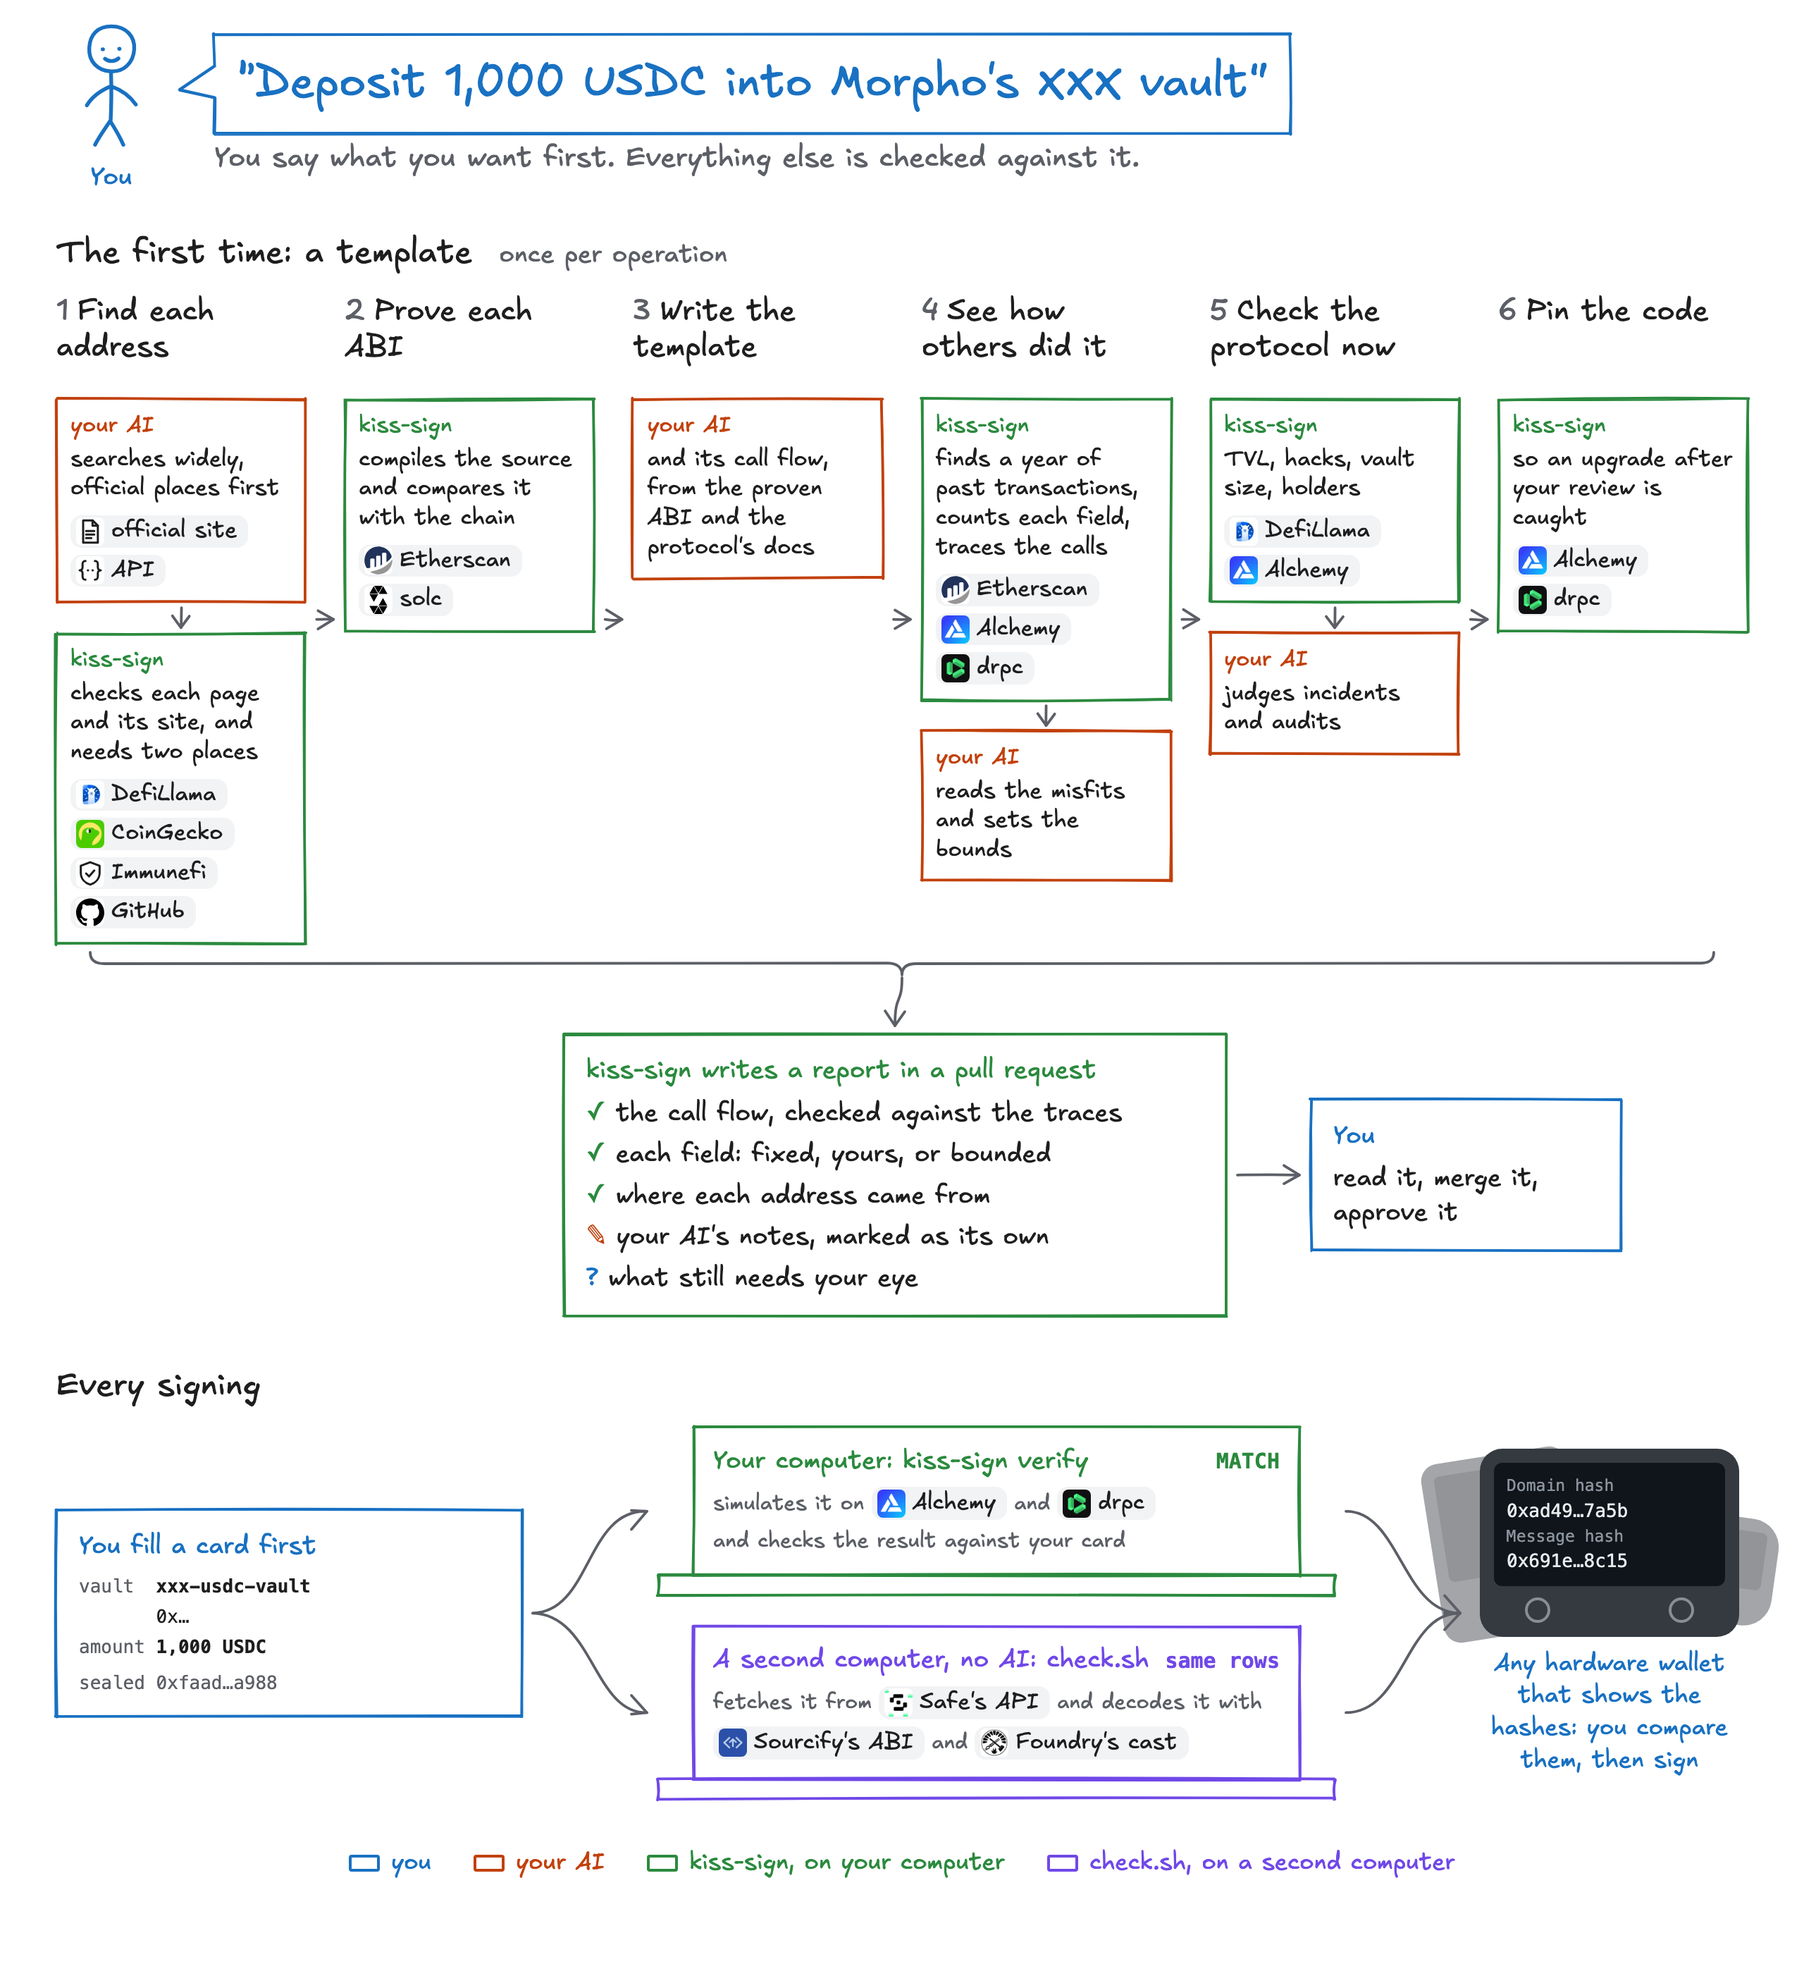
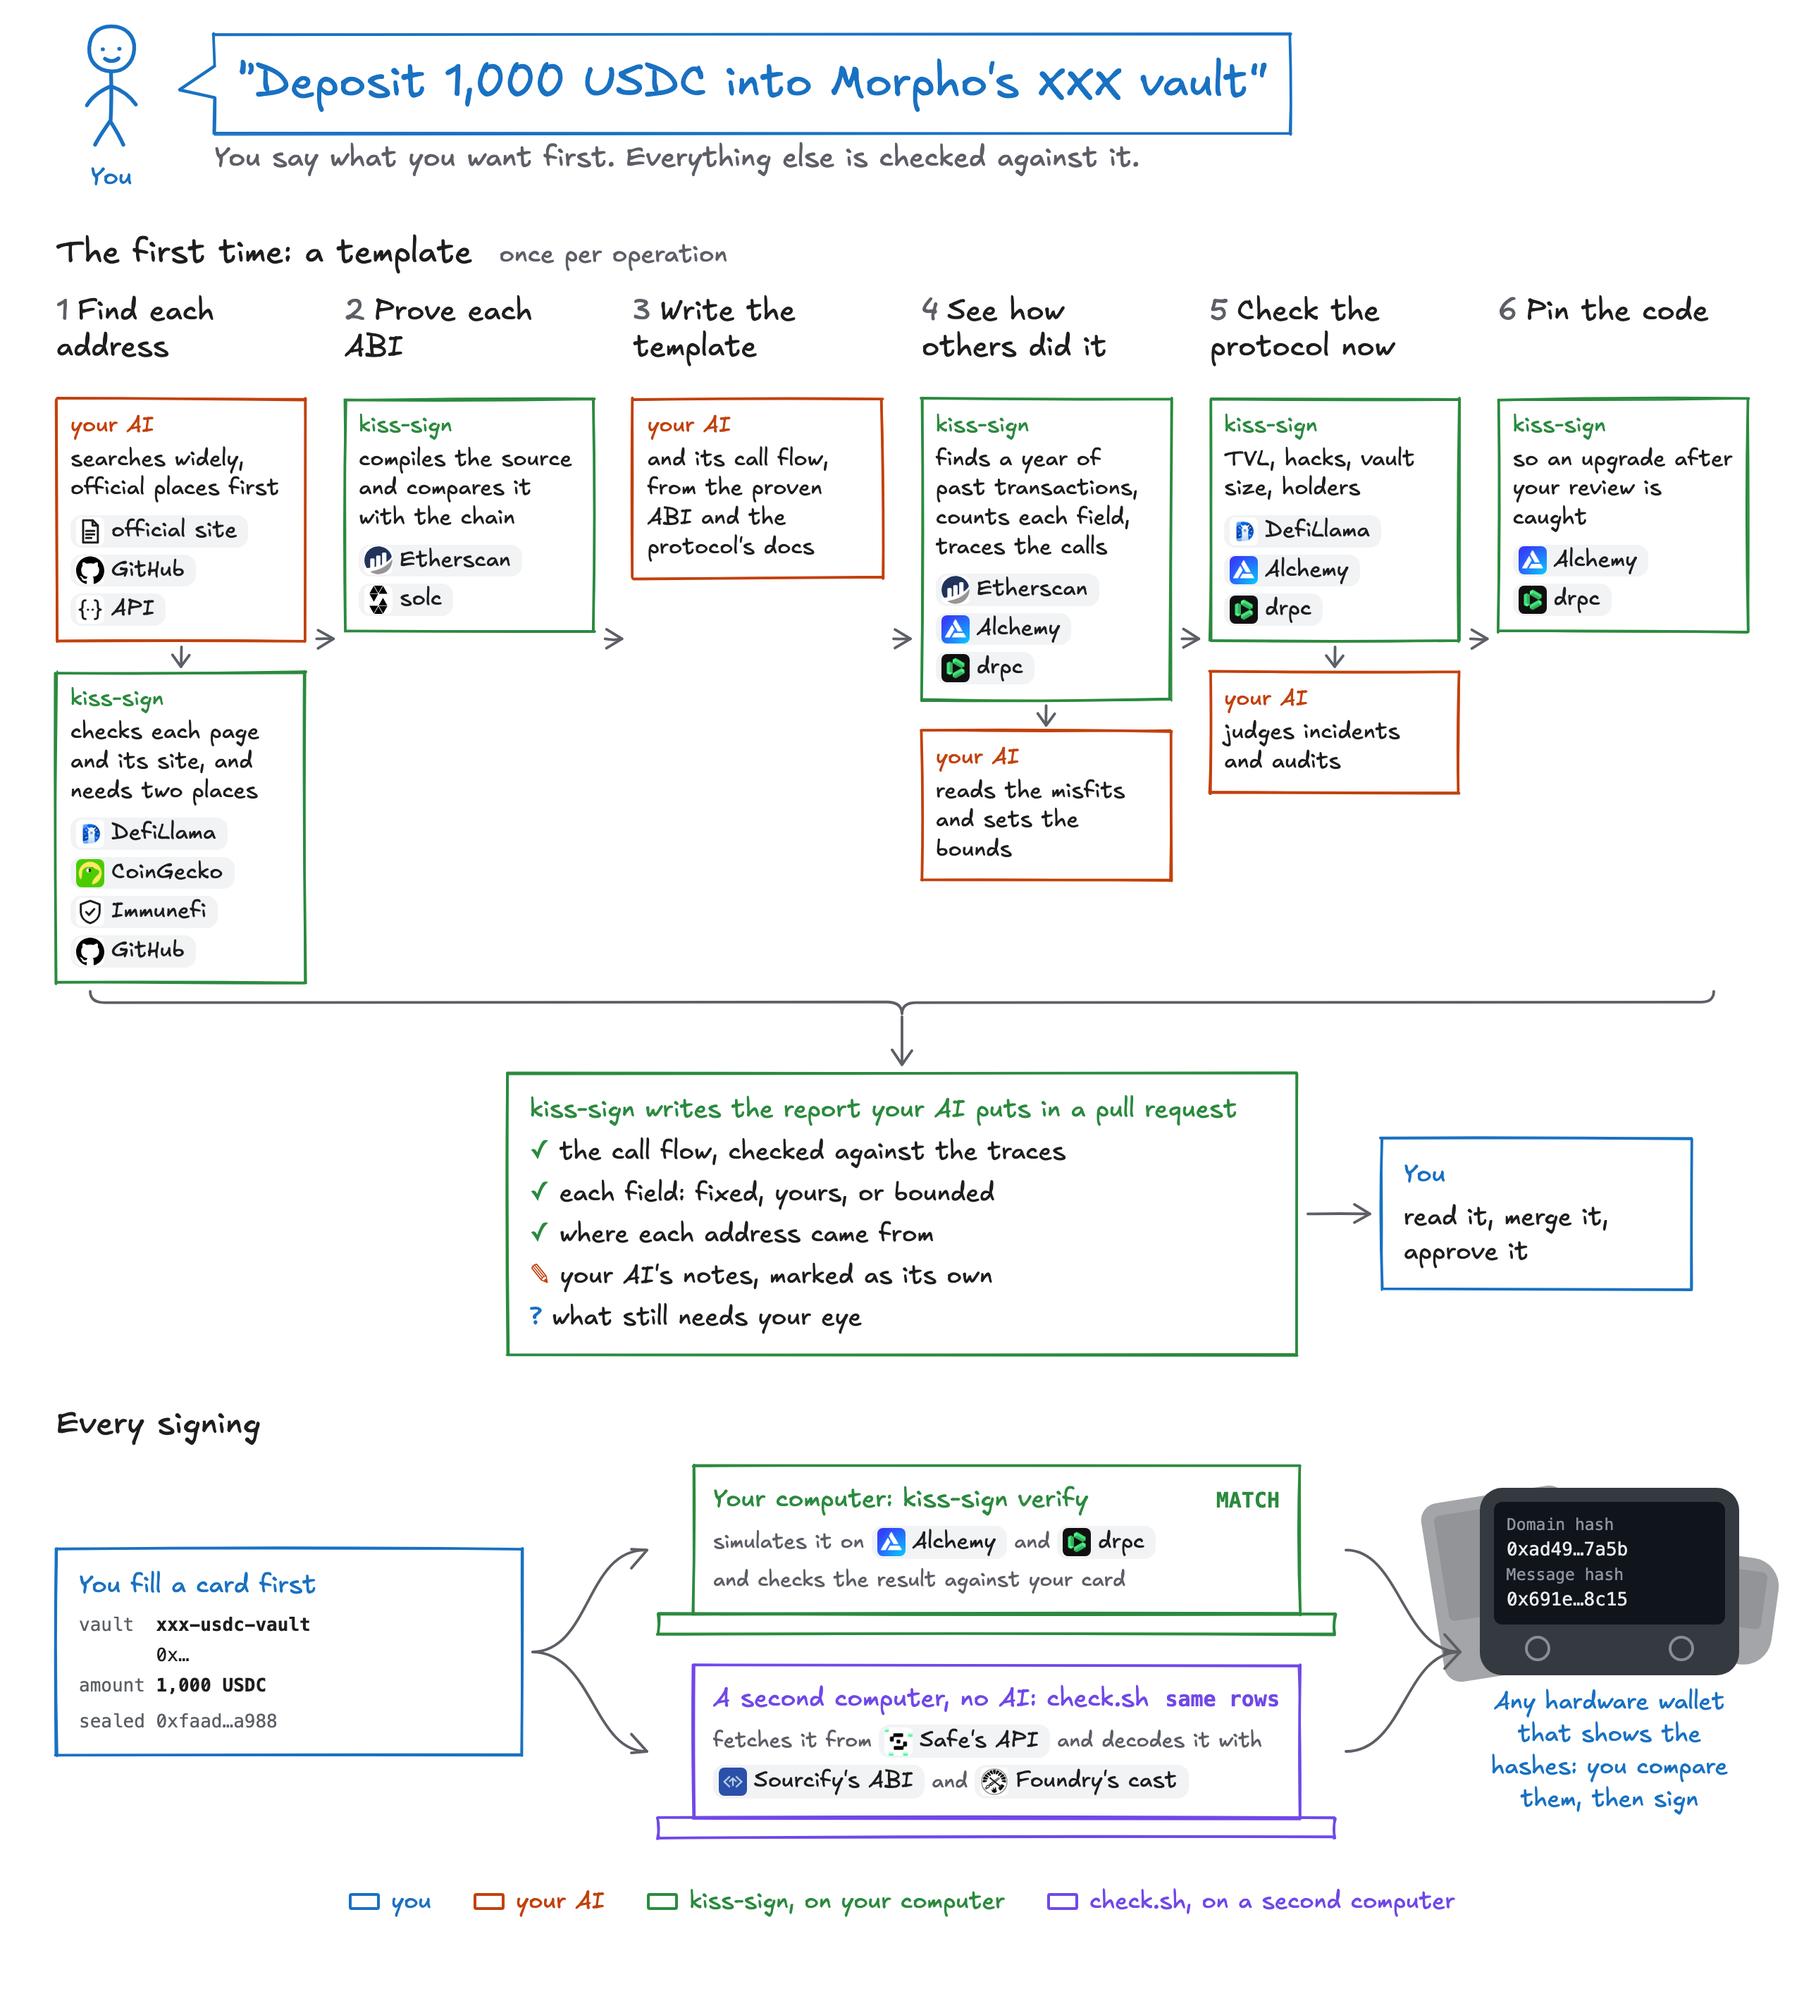
Name who opens the overview's pull request and show each provider
The report title now says the AI puts kiss-sign's report in the pull
request, step 5 shows drpc beside Alchemy for the vault reads, and
step 1's AI part shows GitHub. The alt text matches.

Claude-Session: https://claude.ai/code/session_019EpkRikTD1KbjKp9L1wtSS

diff --git a/docs/diagrams/readme-overview.html b/docs/diagrams/readme-overview.html
@@ -55,10 +55,10 @@
   .part { padding: 9px 10px 11px; font-size: 16px; line-height: 1.3; display: grid; gap: 3px; }
   .part .who { font-size: 16px; margin-bottom: 0; }
   .part .logos { display: flex; gap: 5px; flex-wrap: wrap; margin-top: 5px; }
-  .then { display: flex; align-items: center; gap: 60px; margin: 64px 0 0 0; padding-left: 360px; }
+  .then { display: flex; align-items: center; gap: 60px; margin: 64px 0 0 0; padding-left: 320px; }
   .note { color: var(--muted); font-size: 15px; }
 
-  .report { width: 470px; }
+  .report { width: 560px; }
   .report ul { list-style: none; display: grid; grid-template-columns: 1fr; gap: 5px; font-size: 18px; }
   .report li::before { content: "✓ "; color: var(--prog); }
   .report li.ai::before { content: "✎ "; color: var(--ai); }
@@ -117,17 +117,17 @@
   <h2>The first time: a template <b>once per operation</b></h2>
   <div class="chain" id="chain">
     <div class="steps">
-      <div class="step" id="s1"><div class="t"><span class="n">1</span>Find each address</div><div class="sk part ai"><div class="who">your AI</div><div>searches widely, official places first</div><div class="logos"><span class="lg"><img class="mono-logo" src="logos/docs.svg" alt="">official site</span><span class="lg"><img class="mono-logo" src="logos/api.svg" alt="">API</span></div></div><div class="sk part prog"><div class="who">kiss-sign</div><div>checks each page and its site, and needs two places</div><div class="logos"><span class="lg"><img src="logos/defillama.jpg" alt="">DefiLlama</span><span class="lg"><img src="logos/coingecko.png" alt="">CoinGecko</span><span class="lg"><img class="mono-logo" src="logos/bounty.svg" alt="">Immunefi</span><span class="lg"><img class="mono-logo" src="logos/github.svg" alt="">GitHub</span></div></div></div>
+      <div class="step" id="s1"><div class="t"><span class="n">1</span>Find each address</div><div class="sk part ai"><div class="who">your AI</div><div>searches widely, official places first</div><div class="logos"><span class="lg"><img class="mono-logo" src="logos/docs.svg" alt="">official site</span><span class="lg"><img class="mono-logo" src="logos/github.svg" alt="">GitHub</span><span class="lg"><img class="mono-logo" src="logos/api.svg" alt="">API</span></div></div><div class="sk part prog"><div class="who">kiss-sign</div><div>checks each page and its site, and needs two places</div><div class="logos"><span class="lg"><img src="logos/defillama.jpg" alt="">DefiLlama</span><span class="lg"><img src="logos/coingecko.png" alt="">CoinGecko</span><span class="lg"><img class="mono-logo" src="logos/bounty.svg" alt="">Immunefi</span><span class="lg"><img class="mono-logo" src="logos/github.svg" alt="">GitHub</span></div></div></div>
       <div class="step" id="s2"><div class="t"><span class="n">2</span>Prove each ABI</div><div class="sk part prog"><div class="who">kiss-sign</div><div>compiles the source and compares it with the chain</div><div class="logos"><span class="lg"><img src="logos/etherscan.svg" alt="">Etherscan</span><span class="lg"><img class="mono-logo" src="logos/solidity.svg" alt="">solc</span></div></div></div>
       <div class="step" id="s3"><div class="t"><span class="n">3</span>Write the template</div><div class="sk part ai"><div class="who">your AI</div><div>and its call flow, from the proven ABI and the protocol's docs</div></div></div>
       <div class="step" id="s4"><div class="t"><span class="n">4</span>See how others did it</div><div class="sk part prog"><div class="who">kiss-sign</div><div>finds a year of past transactions, counts each field, traces the calls</div><div class="logos"><span class="lg"><img src="logos/etherscan.svg" alt="">Etherscan</span><span class="lg"><img src="logos/alchemy.png" alt="">Alchemy</span><span class="lg"><img src="logos/drpc.png" alt="">drpc</span></div></div><div class="sk part ai"><div class="who">your AI</div><div>reads the misfits and sets the bounds</div></div></div>
-      <div class="step" id="s5"><div class="t"><span class="n">5</span>Check the protocol now</div><div class="sk part prog"><div class="who">kiss-sign</div><div>TVL, hacks, vault size, holders</div><div class="logos"><span class="lg"><img src="logos/defillama.jpg" alt="">DefiLlama</span><span class="lg"><img src="logos/alchemy.png" alt="">Alchemy</span></div></div><div class="sk part ai"><div class="who">your AI</div><div>judges incidents and audits</div></div></div>
+      <div class="step" id="s5"><div class="t"><span class="n">5</span>Check the protocol now</div><div class="sk part prog"><div class="who">kiss-sign</div><div>TVL, hacks, vault size, holders</div><div class="logos"><span class="lg"><img src="logos/defillama.jpg" alt="">DefiLlama</span><span class="lg"><img src="logos/alchemy.png" alt="">Alchemy</span><span class="lg"><img src="logos/drpc.png" alt="">drpc</span></div></div><div class="sk part ai"><div class="who">your AI</div><div>judges incidents and audits</div></div></div>
       <div class="step" id="s6"><div class="t"><span class="n">6</span>Pin the code</div><div class="sk part prog"><div class="who">kiss-sign</div><div>so an upgrade after your review is caught</div><div class="logos"><span class="lg"><img src="logos/alchemy.png" alt="">Alchemy</span><span class="lg"><img src="logos/drpc.png" alt="">drpc</span></div></div></div>
     </div>
   </div>
   <div class="then">
     <div class="sk prog report" id="report">
-      <div class="who">kiss-sign writes a report in a pull request</div>
+      <div class="who">kiss-sign writes the report your AI puts in a pull request</div>
       <ul><li>the call flow, checked against the traces</li><li>each field: fixed, yours, or bounded</li><li>where each address came from</li><li class="ai">your AI's notes, marked as its own</li><li class="q">what still needs your eye</li></ul>
     </div>
     <div class="sk you merge" id="merge">

diff --git a/README.md b/README.md
@@ -16,7 +16,7 @@ Signing tools today show you a transaction and ask whether it looks right. Your 
 
 <picture>
   <source media="(prefers-color-scheme: dark)" srcset="docs/readme/overview-dark.png">
-  <img src="docs/readme/overview.png" alt="kiss-sign at a glance. You say what you want. Once per operation, your AI finds each address and kiss-sign confirms it in at least two places; kiss-sign proves each ABI; your AI writes the template and its call flow; kiss-sign studies a year of past transactions and your AI sets the bounds; kiss-sign reads the protocol's state, which your AI judges, and pins the code; kiss-sign writes a report, with your AI's notes marked, that you review and merge. At every signing you fill a card; kiss-sign verify simulates the transaction on two providers and checks it against the card; a second computer decodes it on its own with check.sh; and you compare the hashes on your hardware wallet before signing.">
+  <img src="docs/readme/overview.png" alt="kiss-sign at a glance. You say what you want. Once per operation, your AI finds each address and kiss-sign confirms it in at least two places; kiss-sign proves each ABI; your AI writes the template and its call flow; kiss-sign studies a year of past transactions and your AI sets the bounds; kiss-sign reads TVL, hacks and the vault's size and your AI judges incidents and audits; kiss-sign pins the code and writes the report, with your AI's notes marked, which your AI puts in a pull request for you to review and merge. At every signing you fill a card; kiss-sign verify simulates the transaction on two providers and checks it against the card; a second computer decodes it on its own with check.sh; and you compare the hashes on your hardware wallet before signing.">
 </picture>
 
 ## Contents
